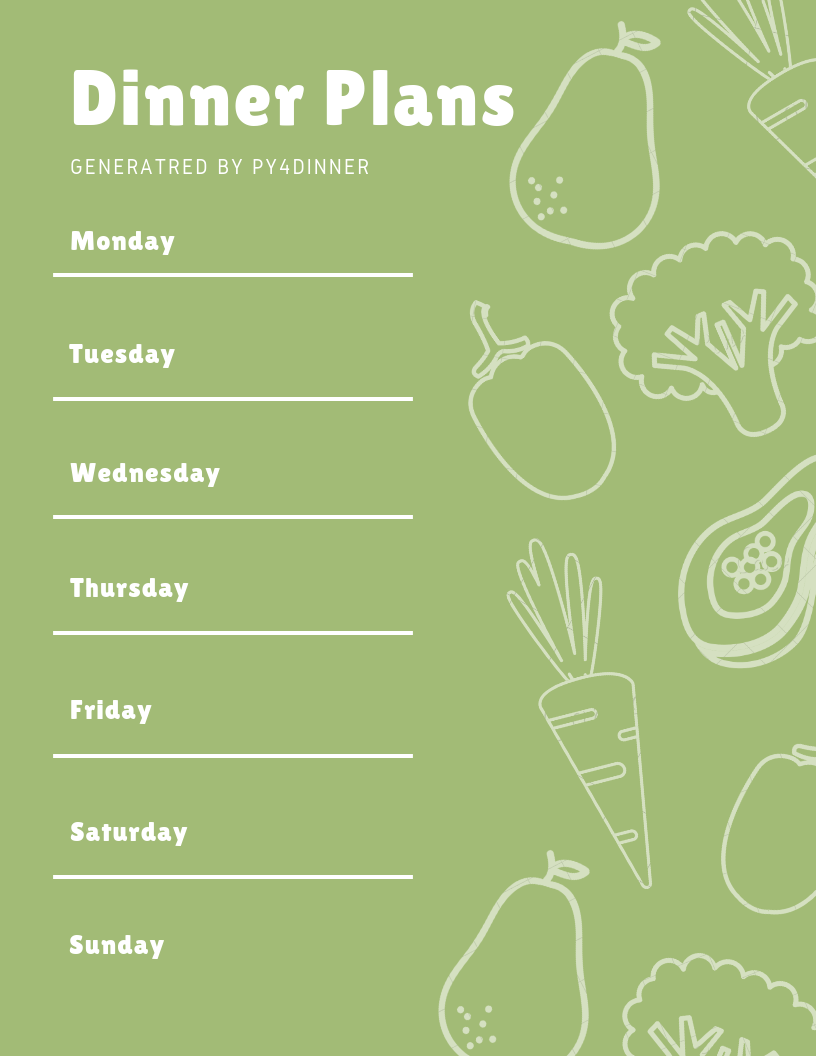
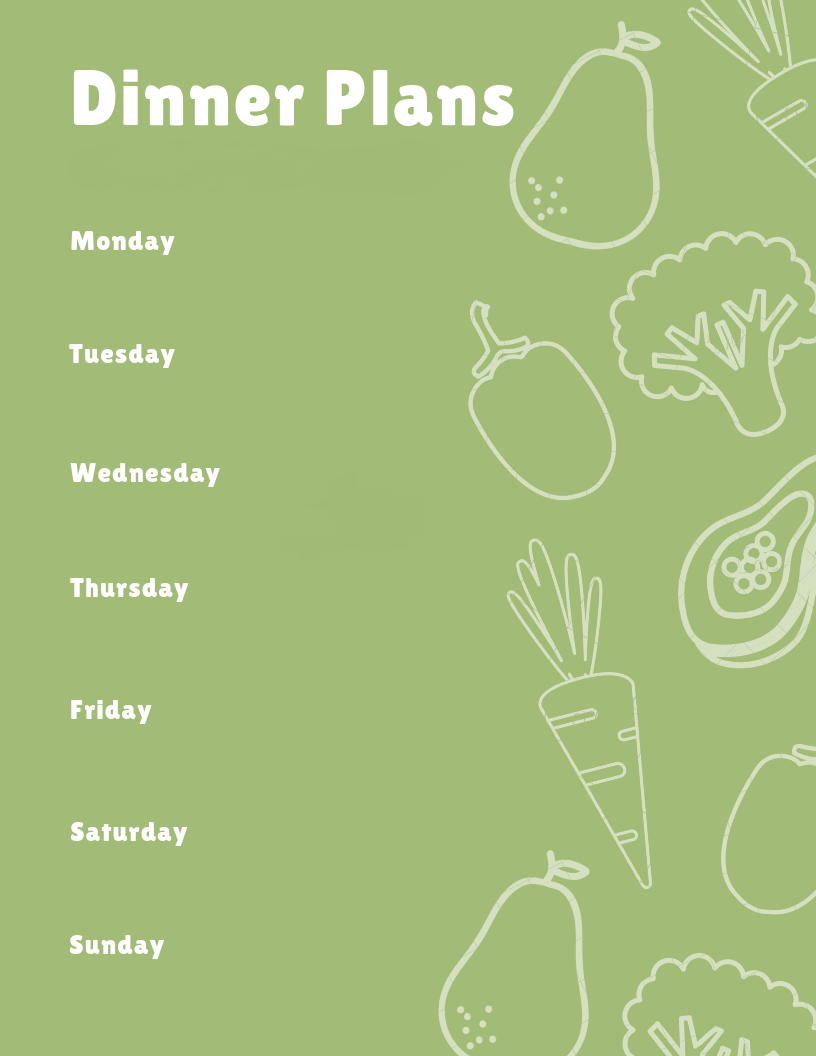
Recipe Work
Extends recipe book, and I can't remember what else. Forgot to commit last session.

diff --git a/Py4Dinner.py b/Py4Dinner.py
@@ -3,6 +3,7 @@
 # This script creates a meal plan that meets specified nutrition requirements.
 # This document is initially just for the planning and pseudo-code phase of the 
 # project. Primary development may take place at home.
+import datetime
 import random
 import logging
 import json
@@ -12,6 +13,7 @@ import re
 import pyperclip
 import pprint
 from PIL import Image, ImageDraw, ImageFont
+import matplotlib.pyplot as plt
 logging.basicConfig(level=logging.INFO, format=' %(asctime)s - ' +\
                     '%(levelname)s - %(message)s')
 
@@ -152,8 +154,8 @@ def getMacros(plan):
     Determines daily composition of macronutrients.
     Input is a mealPlan object.
     e.g. plan = mealPlan
-    Output is a list object. Each row represent a day from the plan,
-    and will contain a dictionary of 3 numbers. 1st number is fat, 2nd is protein,
+    Output is a list object. Each row represent a running tally of macros (day),
+    and will contain a list of 3 numbers. 1st number is fat, 2nd is protein,
     3rd is netCarbs.
     '''
     macros = []
@@ -187,12 +189,13 @@ def readRecipes(name):
     return book
         
     
-def writeRecipes(food):
+def writeRecipes(food,book='RecipeBook.dat'):
     '''
     Appends new recipe for food to the Recipe Book file.
+    Unless specified, the book to append to will be 'RecipeBook.dat'.
     Dependencies: os, json
     '''
-    bookFile = open('RecipeBook.dat', 'a')
+    bookFile = open(book, 'a')
     foodstr = json.dumps(food.__dict__)
     w = bookFile.write(foodstr + '\n')
     bookFile.close()
@@ -311,6 +314,7 @@ def combine(Food1, Food2):
 
 
 ### Global Variables ###
+outFile = open('out.txt','w')
 
 calories = 1456    # The program will make sure daily totals stay under this
 carbohydrates = 500# The program will make sure daily totals stay under this
@@ -433,11 +437,15 @@ logging.info('        Plan-builder complete!')
 
 #TODO: Ask user if plan is acceptable, and allow manual override.
 print('\n\nMeal plan created:')
+outFile.write('Meal plan created:\n\n')
 pprint.pprint(mealPlan)
+pprint.pprint(mealPlan,outFile)
 
 print('')
 print('Leftovers:')
+outFile.write('\n\nLeftovers:\n')
 pprint.pprint(leftovers)
+pprint.pprint(leftovers,outFile)
 
 
 #-----------------------------------------------------------------------
@@ -462,11 +470,20 @@ for day in mealPlan:
                     groceries[i[2]] = [i[0], i[1]]
                     
 print('\n\nGrocery List:')
+outFile.write('\n\nGrocery List:\n')
 pprint.pprint(groceries)
+pprint.pprint(groceries,outFile)
             
 #TODO: Create grocery list and menu files
+
+## Text Method (already used with pprint)
+outFile.close()
+##
+
+
+## Graphical Method
 names = {}
-coords = [(70,280),(70,405),(70,523),(70,640),(70,763)]
+coords = [(80,267),(80,380),(80,500),(80,615),(80,730)]
 
 i = 0
 for day in mealPlan:
@@ -479,11 +496,30 @@ for day in mealPlan:
 im = Image.open('images\BlankDinner.png')
 draw = ImageDraw.Draw(im)
 fontsFolder = 'C:\Windows\Fonts'        # Should probably include all fonts in the repo
-myfont = ImageFont.truetype(os.path.join(fontsFolder, 'consolab.ttf'), 26)
+myfont = ImageFont.truetype(os.path.join(fontsFolder, 'consolab.ttf'), 24)
+stmpfnt = ImageFont.truetype(os.path.join(fontsFolder, 'calibrii.ttf'), 16)
             
 for k,v in names.items():
     draw.text(k, v, fill='white', font=myfont)
     
-im.save('new.png')
+draw.text((75,140),'Generated by py4Dinner ' + str(datetime.date.today()), fill='navy', font=stmpfnt)
 
+### TEMP
+stats = getMacros(mealPlan)[4]
+labels = ['Fat','Protein','NetCarbs']
+colors = ['lightcoral','gold','lightskyblue']
+plt.pie(stats, colors=colors, labels=labels, autopct='%1.1f%%', shadow=False, startangle=30)
+plt.axis('equal')
+plt.savefig('foo.png', bbox_inches='tight')
+fig = Image.open('foo.png')
+fig = fig.resize((460,320),resample=Image.LANCZOS)
+fig.save('plot.png')
+im.paste(fig,(400,735))
+macrotext = ImageFont.truetype(os.path.join(fontsFolder, 'calibri.ttf'), 18)
+draw.text((410,745),'Weekly Macros', fill='black', font=macrotext)
+draw.line([(408,763),(525,763)], fill='black',width=1)
+###
+
+im.save('new.png')
+##
 

diff --git a/ui/test.py b/ui/test.py
@@ -1,0 +1,40 @@
+# -*- coding: utf-8 -*-
+
+# Form implementation generated from reading ui file 'test.ui'
+#
+# Created by: PyQt5 UI code generator 5.11.3
+#
+# WARNING! All changes made in this file will be lost!
+
+from PyQt5 import QtCore, QtGui, QtWidgets
+
+class Ui_MainWindow(object):
+    def setupUi(self, MainWindow):
+        MainWindow.setObjectName("MainWindow")
+        MainWindow.resize(600, 400)
+        self.centralwidget = QtWidgets.QWidget(MainWindow)
+        self.centralwidget.setObjectName("centralwidget")
+        self.label = QtWidgets.QLabel(self.centralwidget)
+        self.label.setGeometry(QtCore.QRect(20, 30, 47, 13))
+        self.label.setObjectName("label")
+        self.label_2 = QtWidgets.QLabel(self.centralwidget)
+        self.label_2.setGeometry(QtCore.QRect(20, 60, 47, 13))
+        self.label_2.setObjectName("label_2")
+        MainWindow.setCentralWidget(self.centralwidget)
+        self.menubar = QtWidgets.QMenuBar(MainWindow)
+        self.menubar.setGeometry(QtCore.QRect(0, 0, 800, 21))
+        self.menubar.setObjectName("menubar")
+        MainWindow.setMenuBar(self.menubar)
+        self.statusbar = QtWidgets.QStatusBar(MainWindow)
+        self.statusbar.setObjectName("statusbar")
+        MainWindow.setStatusBar(self.statusbar)
+
+        self.retranslateUi(MainWindow)
+        QtCore.QMetaObject.connectSlotsByName(MainWindow)
+
+    def retranslateUi(self, MainWindow):
+        _translate = QtCore.QCoreApplication.translate
+        MainWindow.setWindowTitle(_translate("MainWindow", "MainWindow"))
+        self.label.setText(_translate("MainWindow", "MyLabel1"))
+        self.label_2.setText(_translate("MainWindow", "MyLabel2"))
+

diff --git a/ui/gui.py b/ui/gui.py
@@ -1,0 +1,22 @@
+#! python3
+# gui.py
+
+### This file is just to experiment with GUI creation.
+
+import os
+os.chdir('D:\\Czarified\\Documents\\GitHub\\py4Dinner')
+import sys
+from PyQt5 import QtWidgets
+from gui import Ui_MainWindow 
+
+
+class mywindow(QtWidgets.QMainWindow):
+    def __init__(self):
+        super(mywindow, self).__init__()
+        self.ui = Ui_MainWindow()
+        self.ui.setupUi(self)
+
+app = QtWidgets.QApplication([])
+application = mywindow()
+application.show()
+sys.exit(app.exec())
